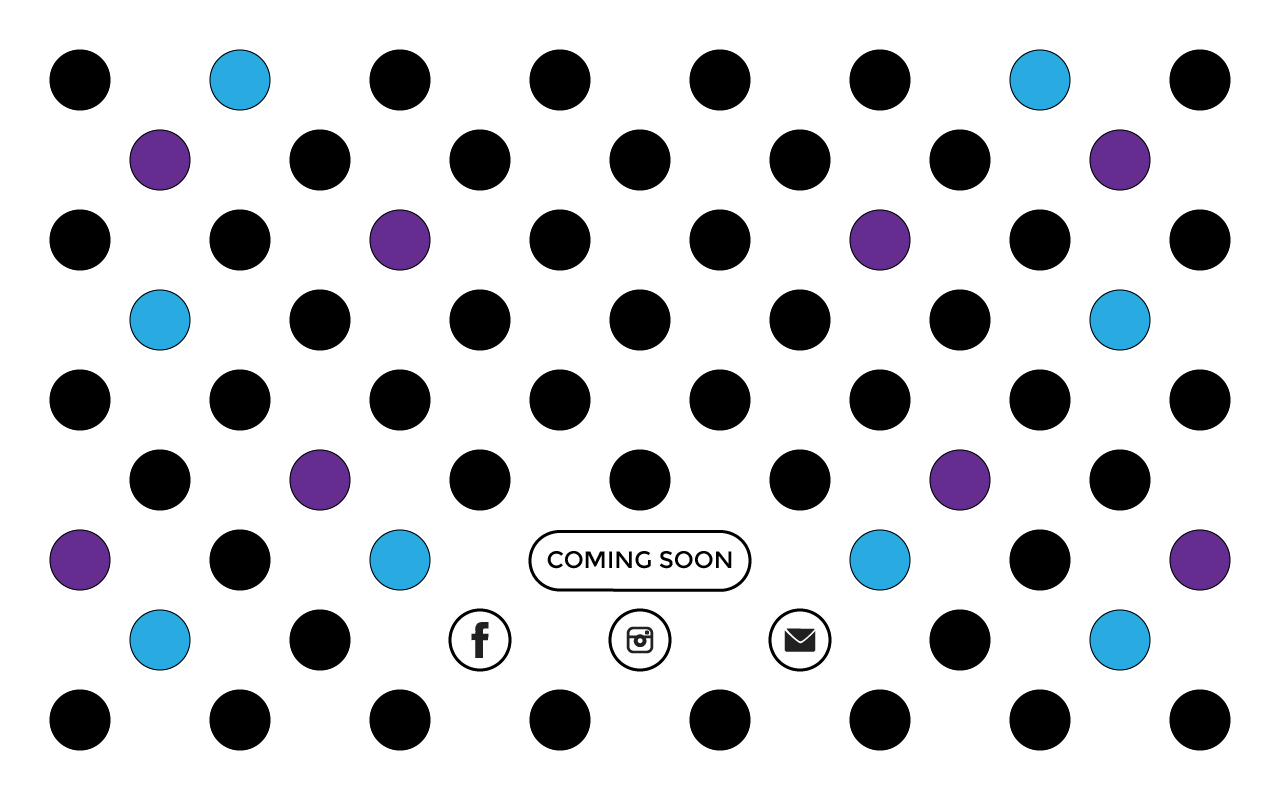
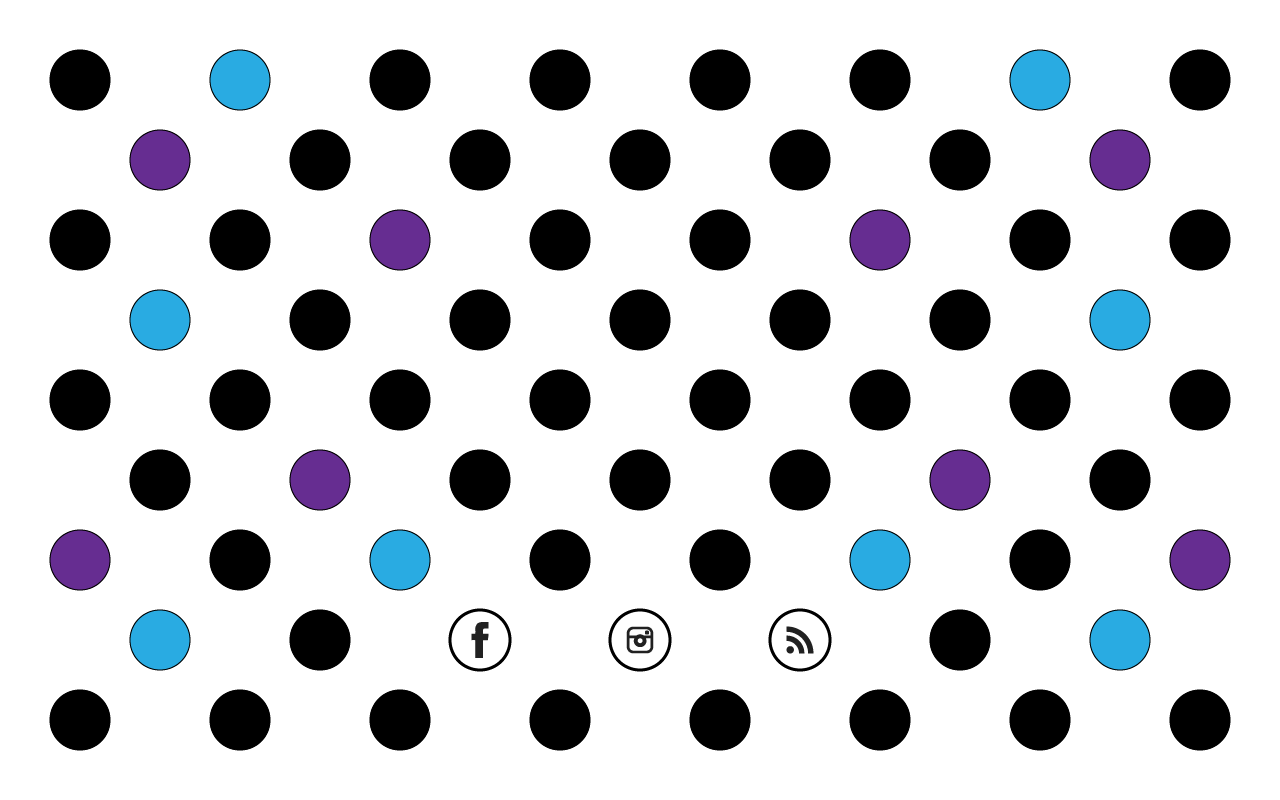
landing page 2

Changed region(s): [[0.4062, 0.6562, 0.5938, 0.75], [0.5938, 0.7812, 0.6562, 0.8125]]

diff --git a/app/assets/javascripts/landing-page.js b/app/assets/javascripts/landing-page.js
@@ -2,6 +2,8 @@
 var ready = function() {
 
 
+  $('#fade-08').hide()
+
     $('#fade-07').on('mousemove', function() {
         $('#fade-07').delay(1000).fadeOut(1500);
         $('#fade-06').delay(2000).fadeOut(1500);
@@ -9,6 +11,7 @@ var ready = function() {
         $('#fade-04').delay(4000).fadeOut(1500);
         $('#fade-03').delay(5000).fadeOut(1500);
         $('#fade-02').delay(6000).fadeOut(1500);
+        $('#fade-08').delay(7000).fadeIn(1000);
     });
 
 };

diff --git a/app/assets/stylesheets/landing-page.css.scss b/app/assets/stylesheets/landing-page.css.scss
@@ -16,6 +16,12 @@
 	}
 }
 
+#fade-08 {
+	width: 320px;
+	height: 80px;
+	position: absolute;
+	top: 445px;
+}
 
 .landing-fade {
  	position:absolute;
@@ -24,5 +30,24 @@
   margin-left:auto;
   margin-right:auto;
   margin-top: 50px;
+}
 
+.social-icon {
+	position:absolute;
+	width: 56px;
+	height: 56px;
+  top: 570px;
+  cursor: pointer;
+}
+
+#social-01 {
+	left: 420px;
+}
+
+#social-02 {
+	left: 570px;
+}
+
+#social-03 {
+	left: 720px;
 }
